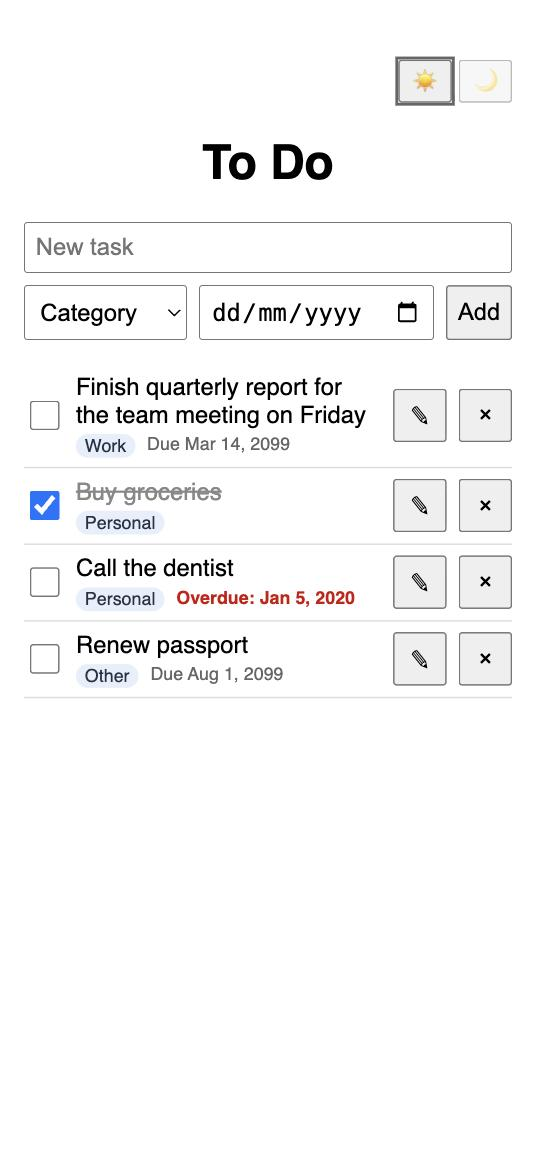
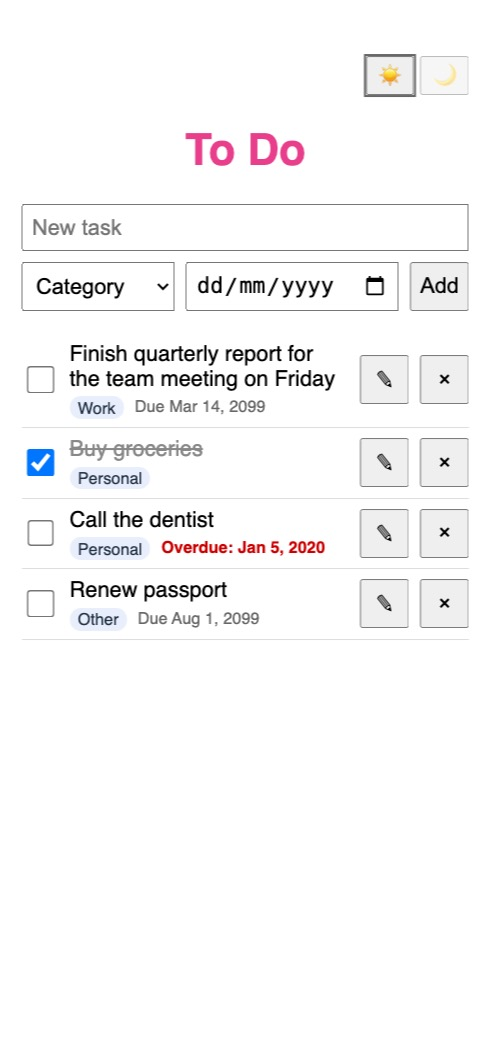
Make app title pink and refresh phone mock-ups

diff --git a/index.html b/index.html
@@ -20,7 +20,7 @@
   .theme-row { text-align: right; }
   .theme-btn { font-size: 16px; padding: 2px 8px; cursor: pointer; opacity: 0.5; }
   .theme-btn[aria-pressed=true] { opacity: 1; outline: 2px solid var(--muted); }
-  h1 { text-align: center; }
+  h1 { text-align: center; color: #e83e8c; }
   form { display: flex; flex-wrap: wrap; gap: 8px; }
   form #input { flex: 1 1 100%; }
   form #category { flex: 1; min-width: 0; }
